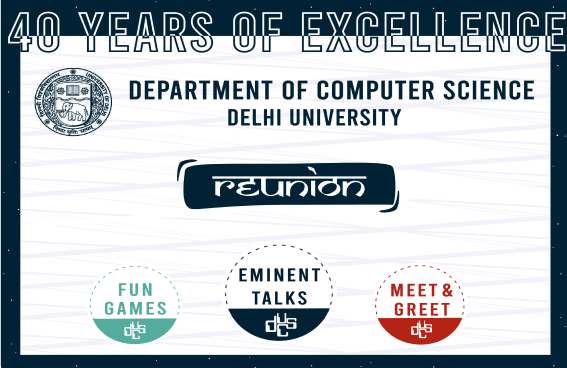
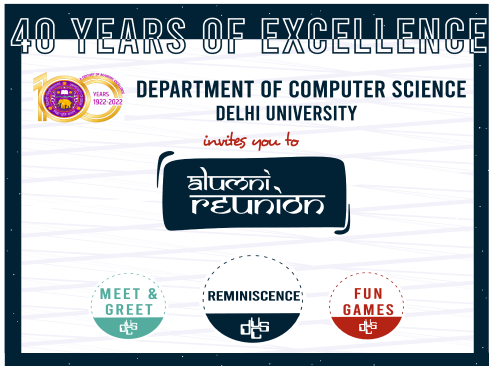
changed cover nd event poster

diff --git a/index.html b/index.html
@@ -58,13 +58,13 @@
 
                 <!-- DUCS LOGO | MIDDLE -->
                 <div class="logo_container">
-                    <div class = "logo_container_div"><a href="#parallax"><img src="img/Group 13.png" alt="du_logo"></a></div>
+                    <div class = "logo_container_div"><a href="#"><img src="img/Group 13.png" alt="du_logo"></a></div>
                 </div>
             </div>
         </div>
 </header>
     <main>
-        <div id="parallax" class="home parallax-item">
+        <div class="home">
             <div class="quote">
                 <p>Welcome <strong class="bold_alumni_text">alumni</strong></p>
                 <p class="session_text">1985 - 2022</p>
@@ -142,7 +142,7 @@
                         the best in your future endeavors."
                     </div>
                 <div class="banner">
-                    <img src="img/depttransparent-01 2.png" alt="banner">
+                    <img src="img/deptBuilding.jpg" alt="banner">
                 </div>
             </div>
         </div>

diff --git a/css/style.css b/css/style.css
@@ -276,8 +276,12 @@
     position: relative;
     width: 100%;
     margin-top:5rem;
-    height: 30rem;
-    background-image: url(../img/slider1-3.jpg);
+    height: 40rem;
+    background-image: url(../img/webcover-01.png);
+    background-repeat: no-repeat;
+    background-size:cover;
+    background-position-y:bottom;
+    
 }
 
 .quote {
@@ -286,7 +290,7 @@
     font-size: 12rem;
     position: absolute;
     top: 50%;
-    left: 50%;
+    left: 40%;
     display:flex;
     align-items: center;
     justify-content: center;
@@ -691,7 +695,7 @@ hr{
 .banner img{
     width: 100%;
     height: 70%;
-    margin-top: auto;
+    padding-right: 10px;
 }
 
 @media screen and (max-width:1024px) {
